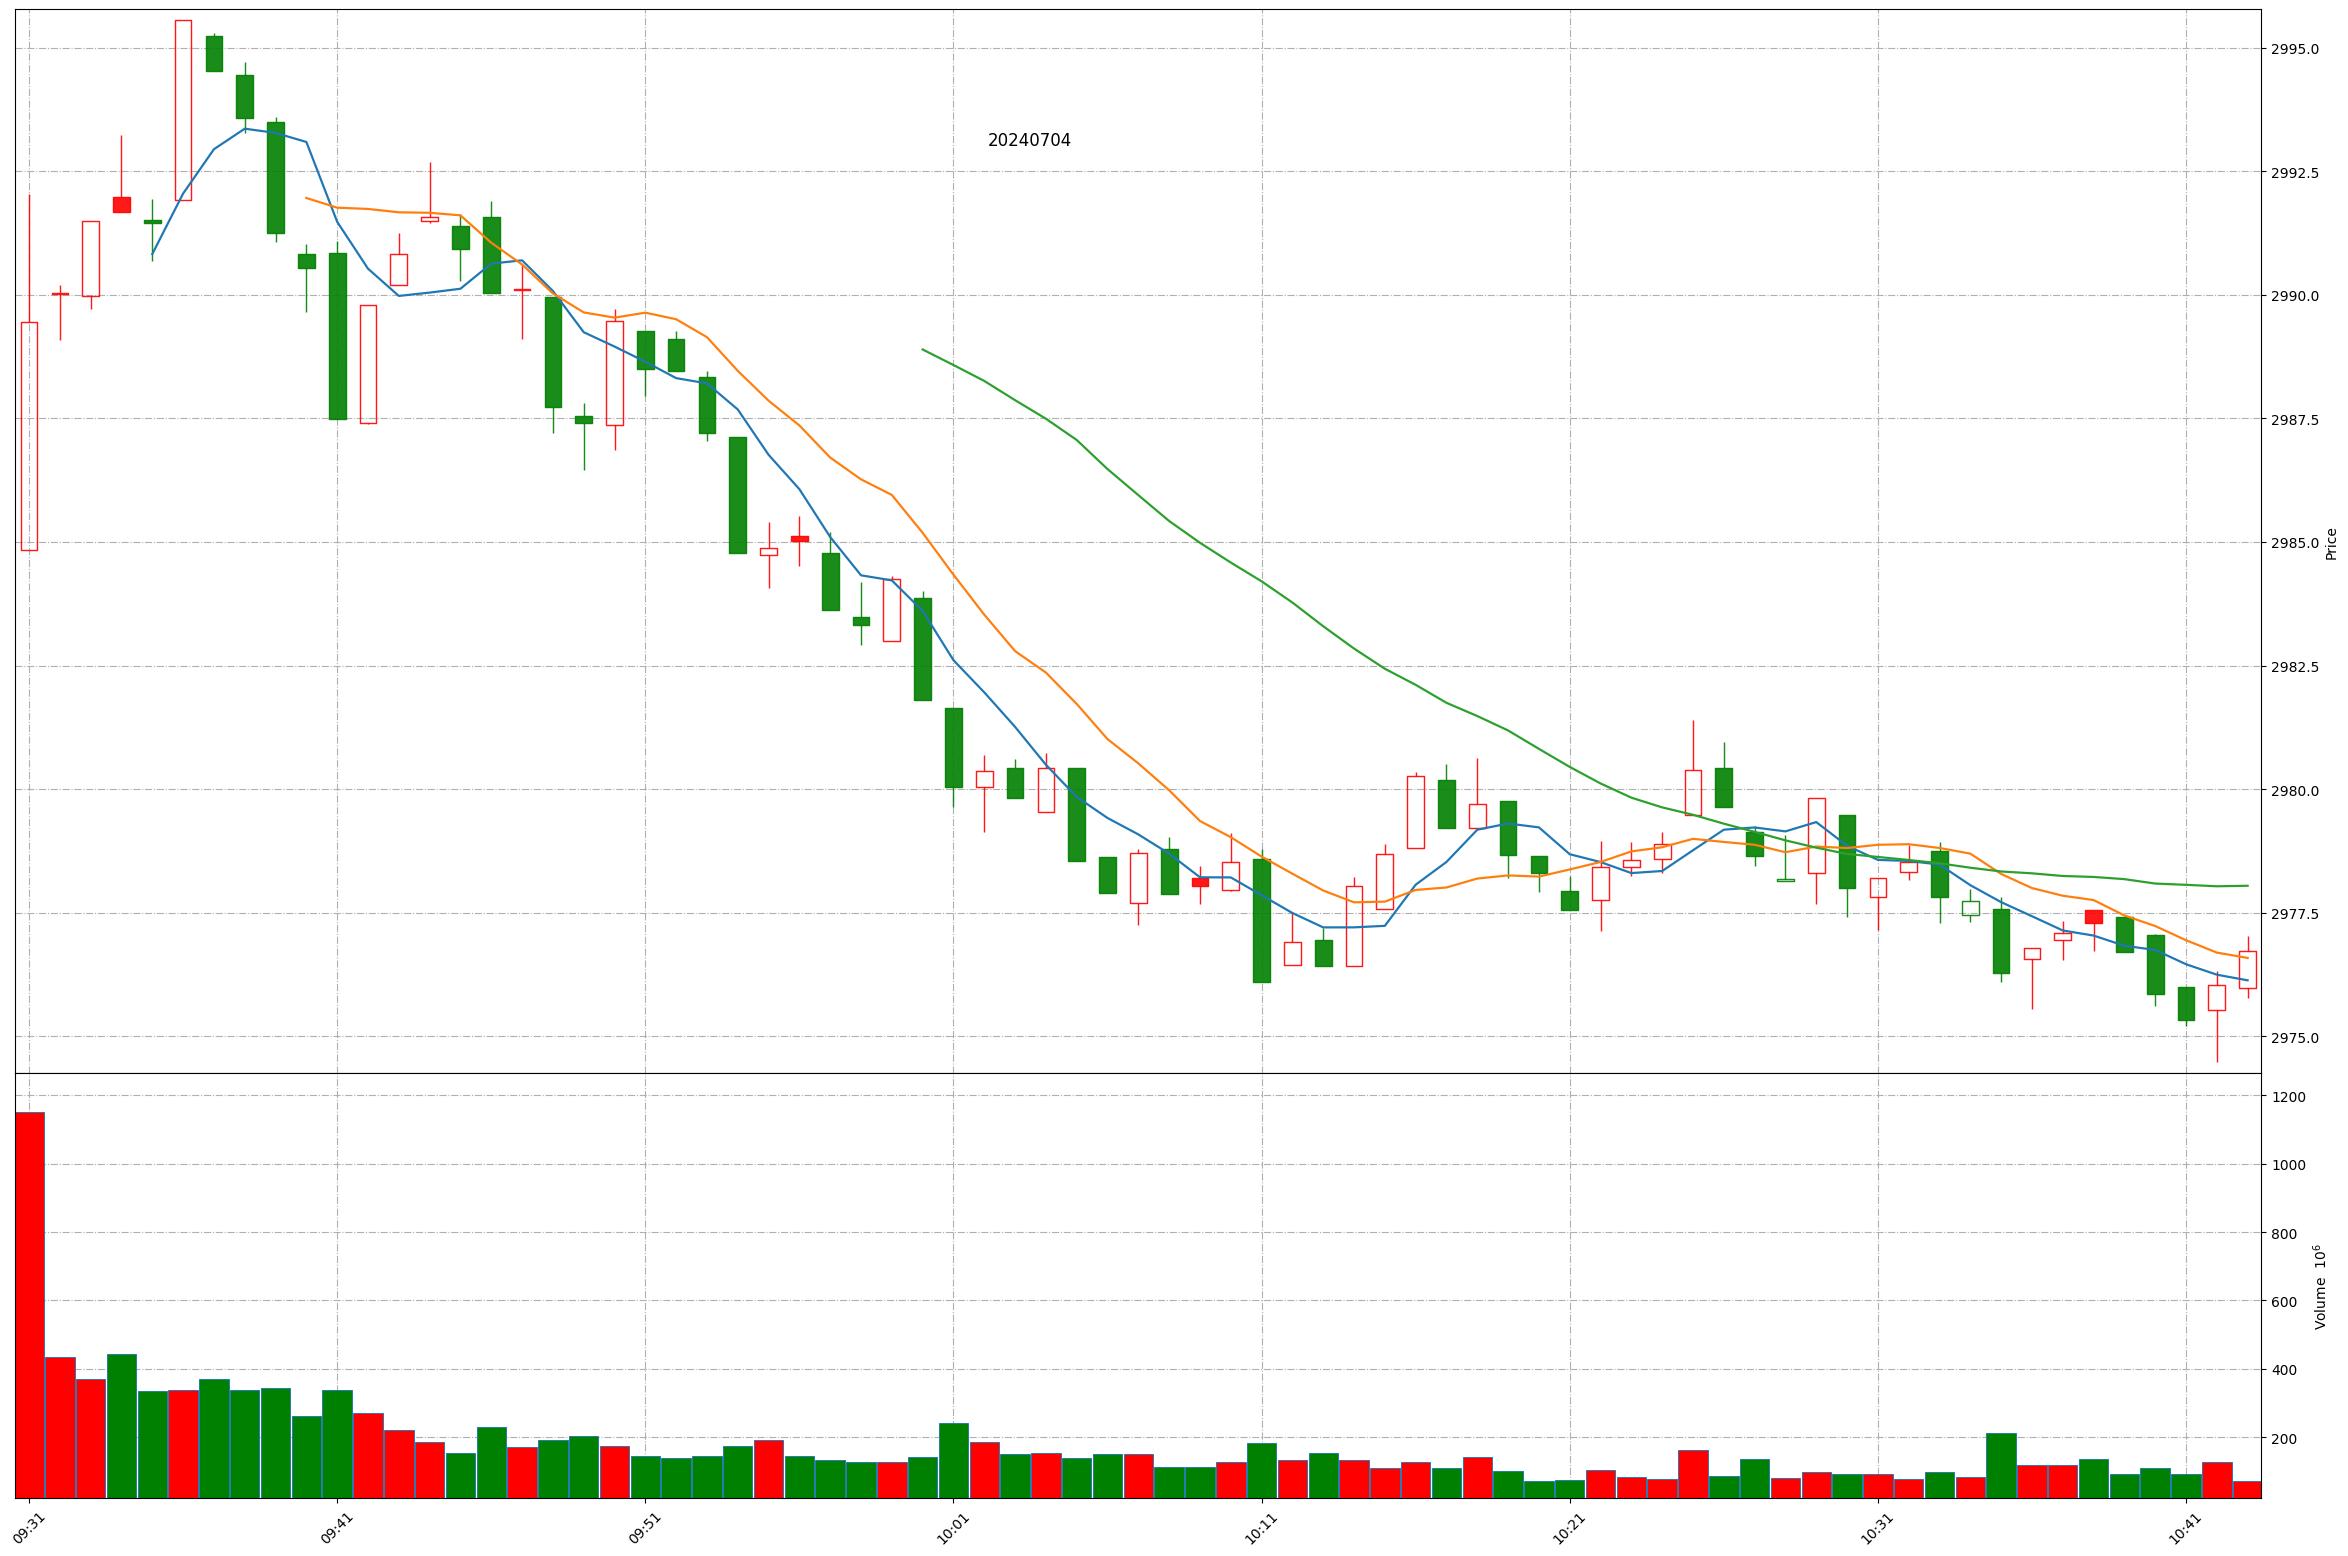
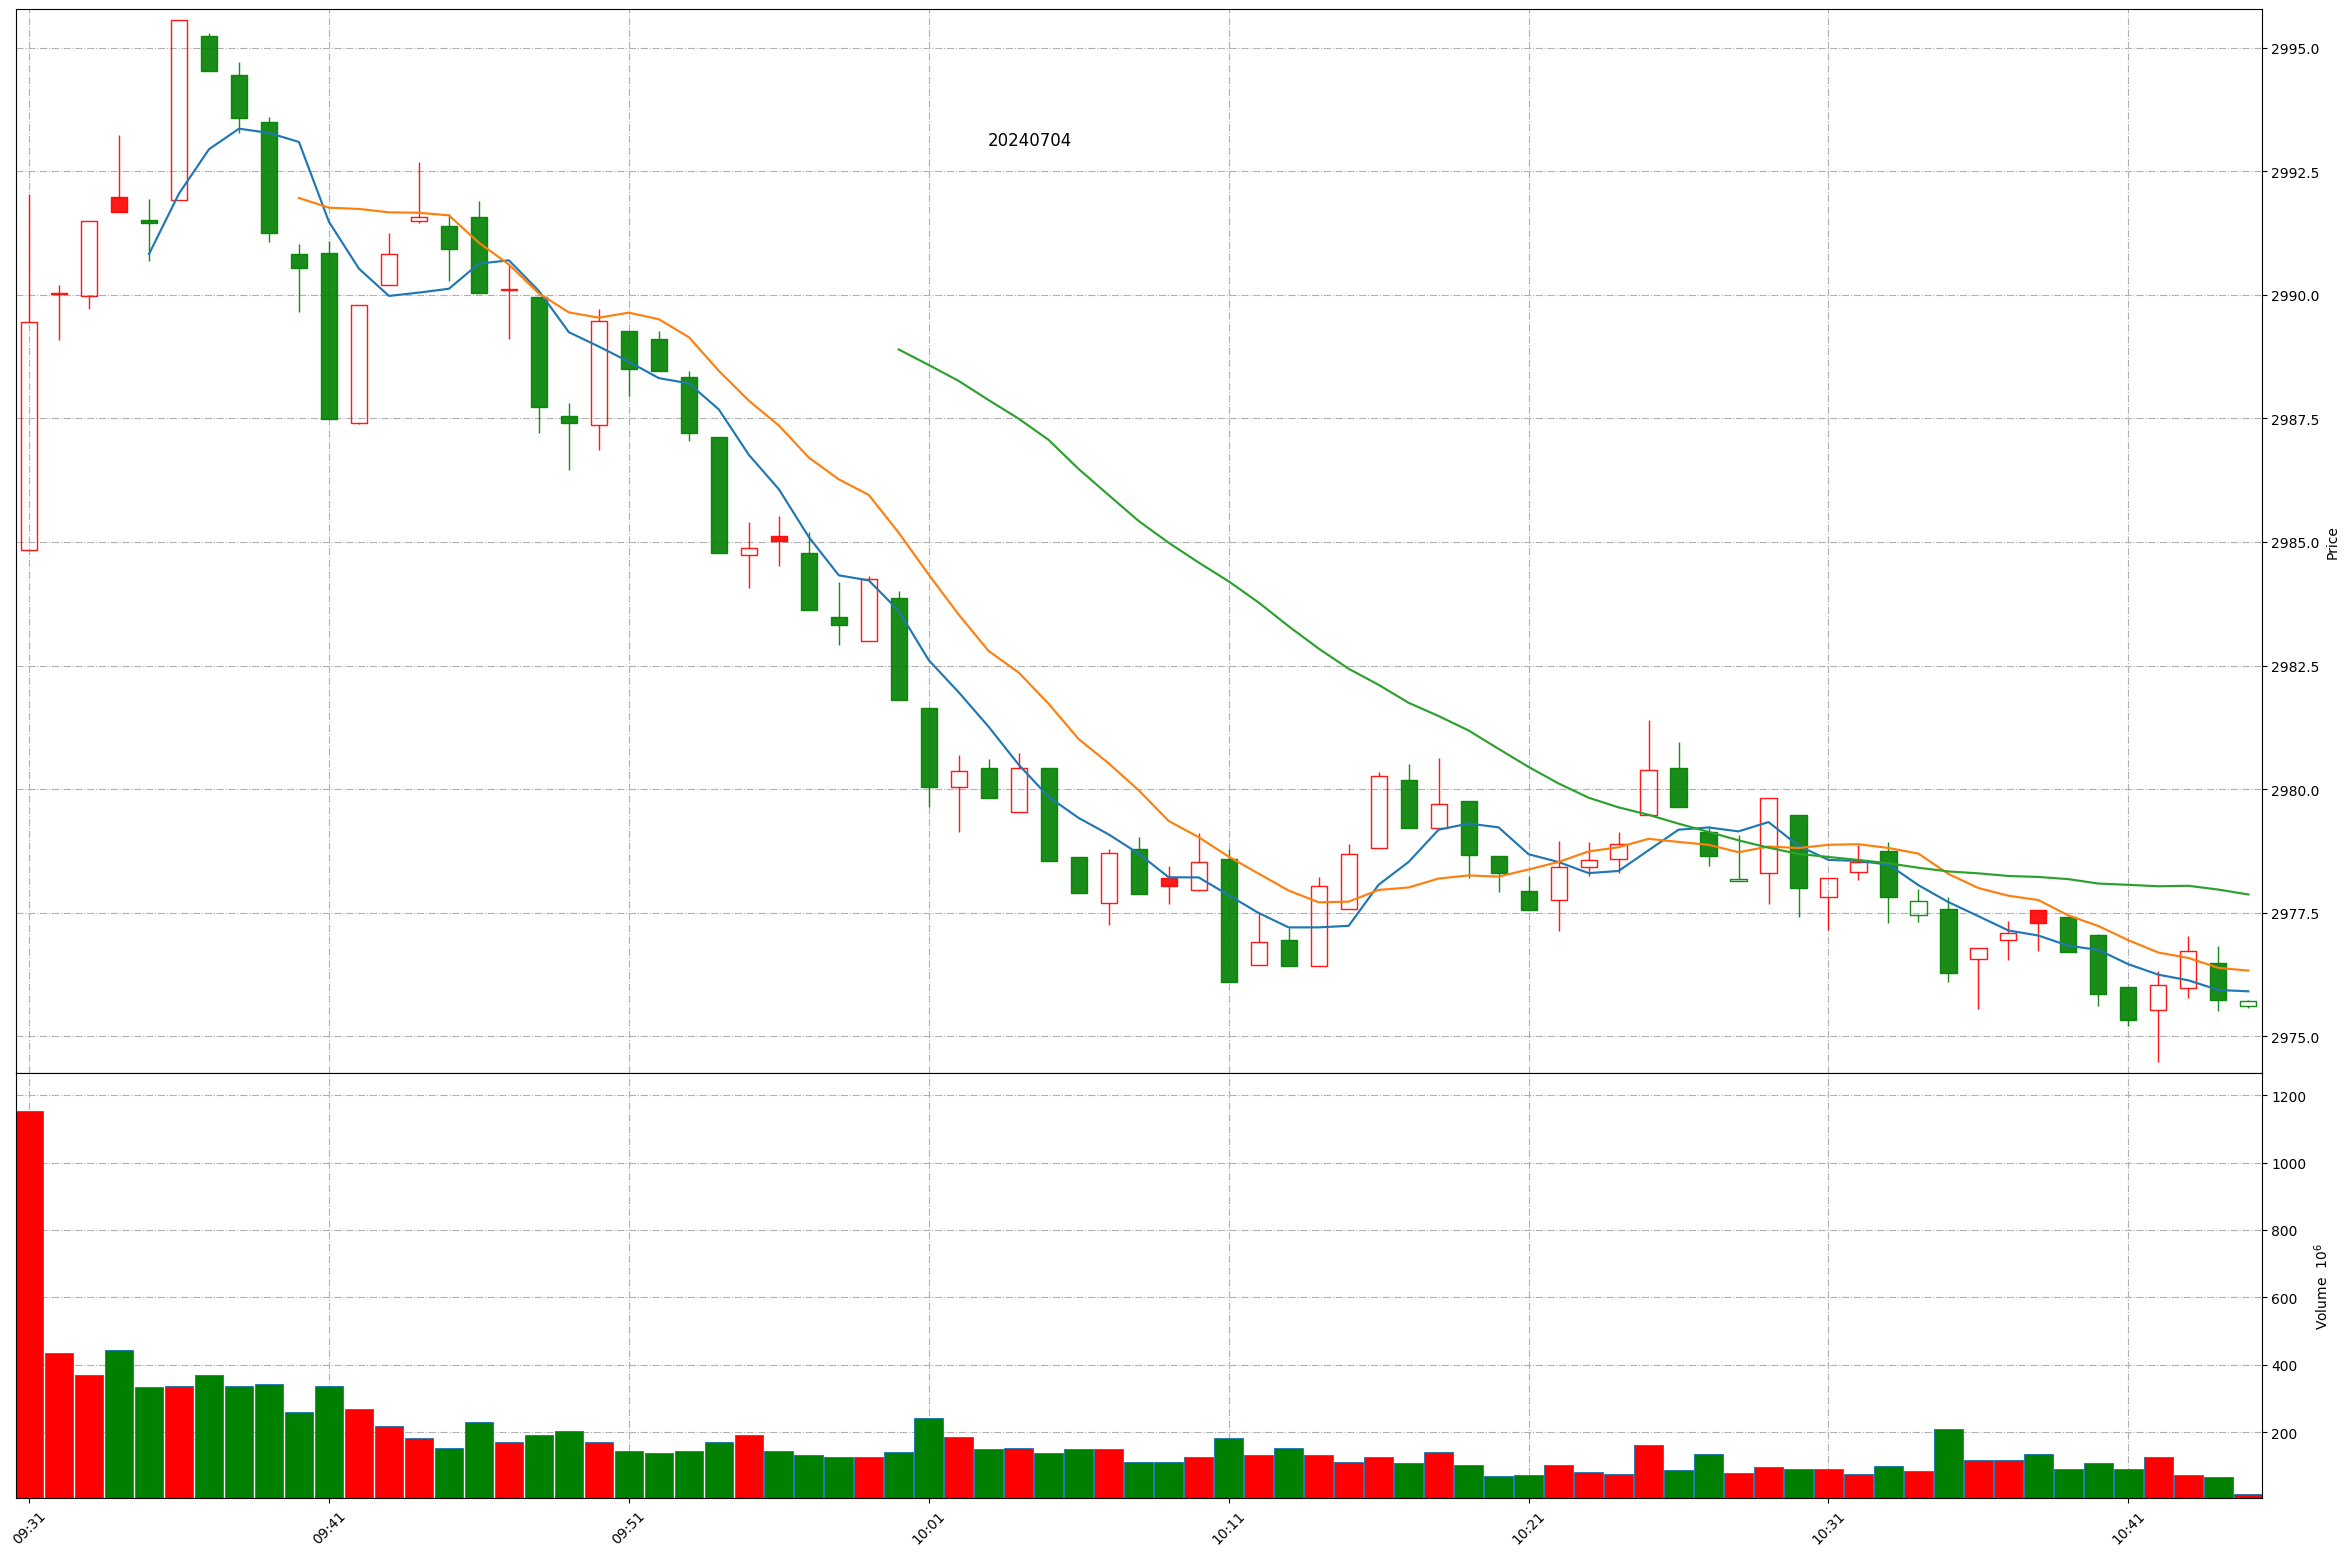
Github action update at 2024-07-04 10:44:42.

diff --git a/README.md b/README.md
@@ -1,11 +1,11 @@
 
 # Daily-A-share-market-quotes 每日 A 股指数（5min 更新）- 20240704
 
-### 上证指数 20240704 10:43
+### 上证指数 20240704 10:44
 ![](./fig/2024/7/20240704-sh000001.png)
 
-### 深证成指 20240704 10:43
+### 深证成指 20240704 10:44
 ![](./fig/2024/7/20240704-sz399001.png)
 
-### 北证50 20240704 10:43
+### 北证50 20240704 10:44
 ![](./fig/2024/7/20240704-bj899050.png)
